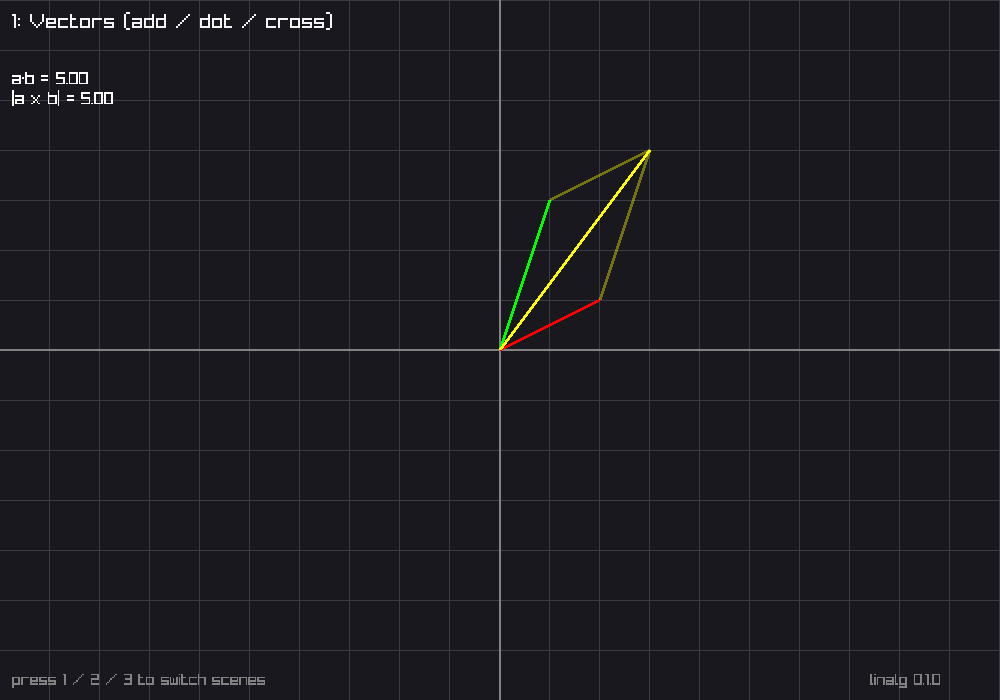
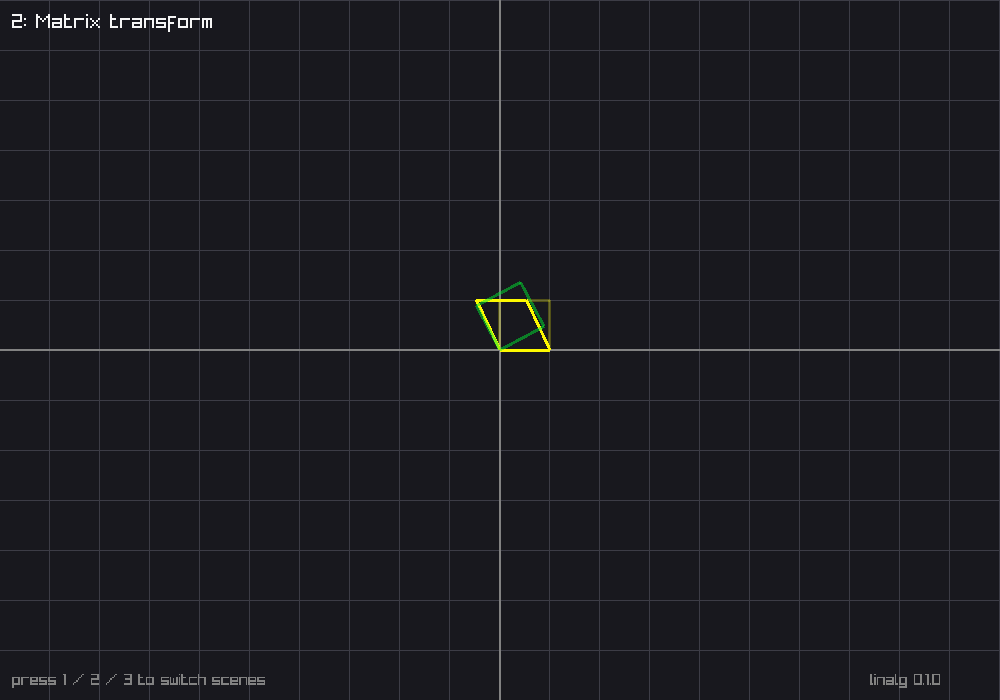
Implement transform scene: animated shear + rotation
scene_transform applies an animated shear and rotation to the unit
square via mat_mul (batch transform of corner columns) and draws
original vs. transformed outlines.

diff --git a/src/scene_transform.c b/src/scene_transform.c
@@ -7,14 +7,43 @@
 #include "raylib.h"
 #include "scenes.h"
 #include "linalg/linalg.h"
+#include <math.h>
 
 void scene_transform_draw(View v, float t) {
-    /* TODO (we'll pair on this):
-     *   - build a 2x2 transform M (animate an entry with sin(t), or rotate)
-     *   - take the unit square corners (and/or the basis vectors)
-     *   - map each point p -> M p using the linalg Mat multiply
-     *   - draw the original shape faint and the transformed shape bright
-     */
-    (void)v; (void)t;
-    DrawText("scene_transform: TODO", 12, 44, 18, (Color){180,180,190,255});
+    double corners[8] = { 0,1,1,0,
+                          1,1,0,0 };
+    Mat *P = mat_from_array(2, 4, corners);
+    double ms[4] = { 1.0, -sin(t),
+                    0.0,  1.0 };
+    double mr[4] = { cos(t), -sin(t),
+                    sin(t),  cos(t) };
+    
+    Mat *Ms = mat_from_array(2, 2, ms);
+    Mat *Mr = mat_from_array(2, 2, mr);
+    Mat *TPs = mat_mul(Ms, P);
+    Mat *TPr = mat_mul(Mr, P);
+    for (int j = 0; j < 4; ++j) {
+        int k = (j + 1) % 4;
+        Vector2 p0 = world_to_screen(v, mat_get(TPs, 0, j), mat_get(TPs, 1, j));
+        Vector2 p1 = world_to_screen(v, mat_get(TPs, 0, k), mat_get(TPs, 1, k));
+        DrawLineEx(p0, p1, 3.0f, YELLOW);
+    }
+    for (int j = 0; j < 4; ++j) {
+        int k = (j + 1) % 4;
+        Vector2 p0 = world_to_screen(v, mat_get(TPr, 0, j), mat_get(TPr, 1, j));
+        Vector2 p1 = world_to_screen(v, mat_get(TPr, 0, k), mat_get(TPr, 1, k));
+        DrawLineEx(p0, p1, 3.0f, Fade(GREEN, 0.5f));
+    }
+    for (int j = 0; j < 4; ++j) {
+        int k = (j + 1) % 4;
+        Vector2 p0 = world_to_screen(v, mat_get(P, 0, j), mat_get(P, 1, j));
+        Vector2 p1 = world_to_screen(v, mat_get(P, 0, k), mat_get(P, 1, k));
+        DrawLineEx(p0, p1, 3.0f, Fade(YELLOW, 0.25f));
+    }
+
+    mat_free(Ms);
+    mat_free(Mr);
+    mat_free(P);
+    mat_free(TPs);
+    mat_free(TPr);
 }

diff --git a/src/scene_vectors.c b/src/scene_vectors.c
@@ -10,12 +10,7 @@
 #include <stdio.h>
 
 void scene_vectors_draw(View v) {
-    /* TODO (we'll pair on this):
-     *   - define two vectors a and b (in world units)
-     *   - draw a (red) and b (green) from the origin with draw_vector()
-     *   - draw a+b (yellow) and show the parallelogram
-     *   - compute and print a.b (dot) and |a x b| (cross magnitude) with DrawText
-     */
+    /* Demonstrate vector addition, dot product, and cross product. */
     Vec3 a = { 2.0f, 1.0f, 0.0f };
     Vec3 b = { 1.0f, 3.0f, 0.0f };
     draw_vector(v, 0.0f, 0.0f, a.x, a.y, (Color){255,0,0,255});